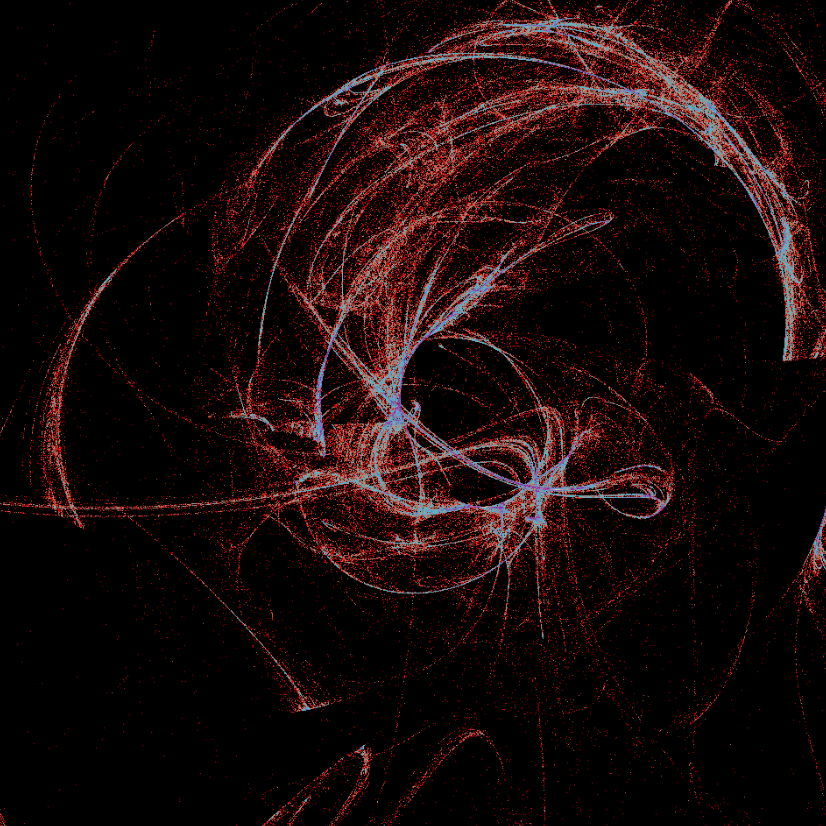
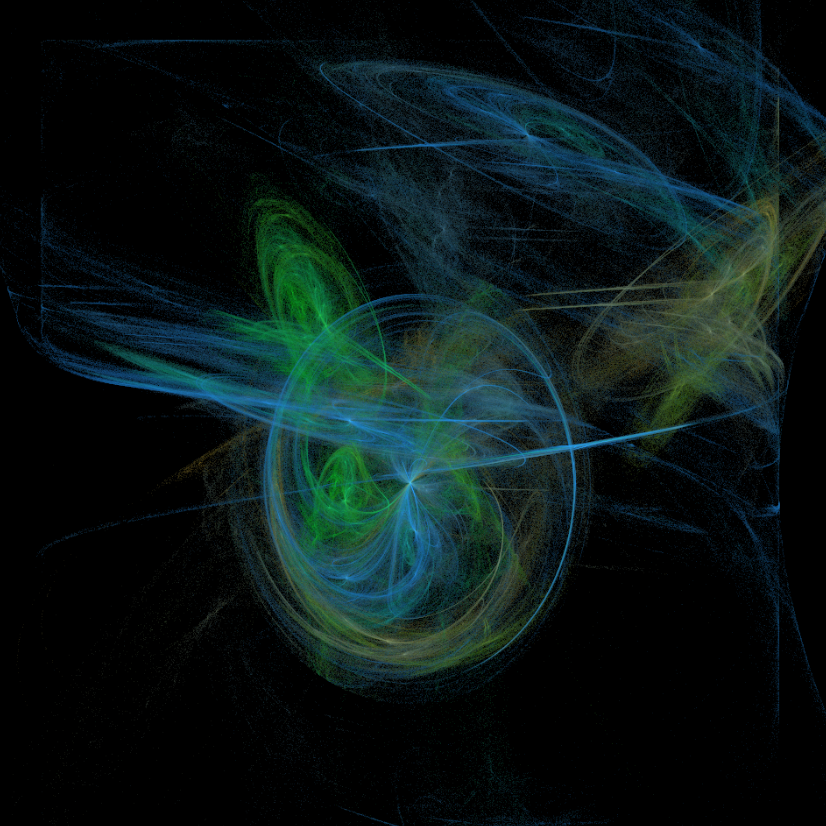
Update flame colors

diff --git a/src/canvas_flame.cpp b/src/canvas_flame.cpp
@@ -29,7 +29,7 @@ Rcpp::DoubleVector affine(Rcpp::DoubleVector p,
                          double d, 
                          double e, 
                          double f) {
-  Rcpp::DoubleVector x(2);
+  Rcpp::DoubleVector x = p;
   x[0] = a * p[0] + b * p[1] + c;
   x[1] = d * p[0] + e * p[1] + f;
   return x;
@@ -44,7 +44,7 @@ Rcpp::DoubleVector variation(Rcpp::DoubleVector p,
                              double e,
                              double f,
                              Rcpp::DoubleVector pparams) {;
-  Rcpp::DoubleVector x(2);
+  Rcpp::DoubleVector x = p;
   double r = sqrt(pow(p[0], 2) + pow(p[1], 2));
   double theta = atan(p[0] / p[1]);
   double phi = atan(p[1] / p[0]);
@@ -295,7 +295,7 @@ Rcpp::DoubleVector posttransform(Rcpp::DoubleVector p,
                          double delta, 
                          double epsilon, 
                          double zeta) {
-  Rcpp::DoubleVector x(2);
+  Rcpp::DoubleVector x = p;
   x[0] = alpha * p[0] + beta * p[1] + gamma;
   x[1] = delta * p[0] + epsilon * p[1] + zeta;
   return x;
@@ -309,6 +309,19 @@ Rcpp::NumericVector get_variation_weights(arma::mat v_ij,
     v_j[iter] = v_ij(i[0], iter);
   }
   return v_j;
+}
+
+Rcpp::DoubleVector update_colors(Rcpp::DoubleVector p,
+                                  arma::mat colors,
+                                  int i) {
+  Rcpp::DoubleVector x = p;
+  double c1 = (p[2] + colors(i, 0)) / 2;
+  x[2] = c1;
+  double c2 = (p[3] + colors(i, 1)) / 2;
+  x[3] = c2;
+  double c3 = (p[4] + colors(i, 2)) / 2;
+  x[4] = c3;
+  return x;
 }
 
 // [[Rcpp::export]]
@@ -326,16 +339,21 @@ Rcpp::DataFrame iterate_flame(int iterations,
                               bool transform_f,
                               Rcpp::DoubleVector f_coef,
                               bool transform_e,
-                              Rcpp::DoubleVector e_coef) {
+                              Rcpp::DoubleVector e_coef,
+                              arma::mat colors) {
   int nvariations = variations.length();
   int npoints = (iterations - 20);
   Rcpp::DoubleVector x(npoints);
   Rcpp::DoubleVector y(npoints);
-  Rcpp::DoubleVector p(2);
+  Rcpp::DoubleVector c1(npoints);
+  Rcpp::DoubleVector c2(npoints);
+  Rcpp::DoubleVector c3(npoints);
+  Rcpp::DoubleVector alpha(npoints);
+  Rcpp::DoubleVector p(5);
   for (int iter = 0; iter < iterations; iter++) {
     Rcpp::checkUserInterrupt();
     Rcpp::NumericVector i = Rcpp::sample(functions, 1, false, w_i);
-    Rcpp::DoubleVector newpoint(2);
+    Rcpp::DoubleVector newpoint(5);
     p = affine(point, mat_coef(i[0], 0), mat_coef(i[0], 1), mat_coef(i[0], 2), mat_coef(i[0], 3), mat_coef(i[0], 4), mat_coef(i[0], 5));
     if (blend_variations) {
       for (int j = 0; j < nvariations; j++) {
@@ -351,6 +369,7 @@ Rcpp::DataFrame iterate_flame(int iterations,
       newpoint = variation(p, ch[0], mat_coef(i[0], 0), mat_coef(i[0], 1), mat_coef(i[0], 2), mat_coef(i[0], 3), mat_coef(i[0], 4), mat_coef(i[0], 5), v_params);
     }
     point = newpoint;
+    point = update_colors(point, colors, i[0]);
     if (transform_p) {
       point = posttransform(point, p_coef(i[0], 0), p_coef(i[0], 1), p_coef(i[0], 2), p_coef(i[0], 3), p_coef(i[0], 4), p_coef(i[0], 5));
     }
@@ -363,10 +382,17 @@ Rcpp::DataFrame iterate_flame(int iterations,
     if (iter > 19) {
       x[iter - 20] = point[0];
       y[iter - 20] = point[1];
+	  c1[iter - 20] = point[2];
+	  c2[iter - 20] = point[3];
+	  c3[iter - 20] = point[4];
     }
   }
   Rcpp::DataFrame flame = Rcpp::DataFrame::create(Rcpp::Named("x") = x,
-                                                  Rcpp::Named("y") = y);
+                                                  Rcpp::Named("y") = y,
+                                                  Rcpp::Named("c1") = c1,
+                                                  Rcpp::Named("c2") = c2,
+                                                  Rcpp::Named("c3") = c3,
+                                                  Rcpp::Named("alpha") = alpha);
   return flame;
 }
 
@@ -379,7 +405,8 @@ arma::mat color_flame(arma::mat canvas,
                       Rcpp::DoubleVector x,
                       Rcpp::DoubleVector y,
                       Rcpp::DoubleVector binsx,
-                      Rcpp::DoubleVector binsy) {
+                      Rcpp::DoubleVector binsy,
+                      Rcpp::DoubleVector c) {
   for (int i = 0; i < x.length(); i++) {
     Rcpp::checkUserInterrupt();
     int indx = cfindInterval(x[i], binsx);
@@ -390,7 +417,7 @@ arma::mat color_flame(arma::mat canvas,
     if ((indy == 0) | (indy == binsy.length())) {
       continue;
     }
-    canvas(indx, indy) = canvas(indx, indy) + 1;
+    canvas(indx, indy) = canvas(indx, indy) + c[i];
   }
   return canvas;
 }

diff --git a/src/RcppExports.cpp b/src/RcppExports.cpp
@@ -83,8 +83,8 @@ BEGIN_RCPP
 END_RCPP
 }
 // iterate_flame
-Rcpp::DataFrame iterate_flame(int iterations, Rcpp::DoubleVector functions, Rcpp::DoubleVector variations, Rcpp::DoubleVector point, Rcpp::DoubleVector w_i, arma::mat mat_coef, bool blend_variations, arma::mat v_ij, Rcpp::DoubleVector v_params, bool transform_p, arma::mat p_coef, bool transform_f, Rcpp::DoubleVector f_coef, bool transform_e, Rcpp::DoubleVector e_coef);
-RcppExport SEXP _aRtsy_iterate_flame(SEXP iterationsSEXP, SEXP functionsSEXP, SEXP variationsSEXP, SEXP pointSEXP, SEXP w_iSEXP, SEXP mat_coefSEXP, SEXP blend_variationsSEXP, SEXP v_ijSEXP, SEXP v_paramsSEXP, SEXP transform_pSEXP, SEXP p_coefSEXP, SEXP transform_fSEXP, SEXP f_coefSEXP, SEXP transform_eSEXP, SEXP e_coefSEXP) {
+Rcpp::DataFrame iterate_flame(int iterations, Rcpp::DoubleVector functions, Rcpp::DoubleVector variations, Rcpp::DoubleVector point, Rcpp::DoubleVector w_i, arma::mat mat_coef, bool blend_variations, arma::mat v_ij, Rcpp::DoubleVector v_params, bool transform_p, arma::mat p_coef, bool transform_f, Rcpp::DoubleVector f_coef, bool transform_e, Rcpp::DoubleVector e_coef, arma::mat colors);
+RcppExport SEXP _aRtsy_iterate_flame(SEXP iterationsSEXP, SEXP functionsSEXP, SEXP variationsSEXP, SEXP pointSEXP, SEXP w_iSEXP, SEXP mat_coefSEXP, SEXP blend_variationsSEXP, SEXP v_ijSEXP, SEXP v_paramsSEXP, SEXP transform_pSEXP, SEXP p_coefSEXP, SEXP transform_fSEXP, SEXP f_coefSEXP, SEXP transform_eSEXP, SEXP e_coefSEXP, SEXP colorsSEXP) {
 BEGIN_RCPP
     Rcpp::RObject rcpp_result_gen;
     Rcpp::RNGScope rcpp_rngScope_gen;
@@ -103,13 +103,14 @@ BEGIN_RCPP
     Rcpp::traits::input_parameter< Rcpp::DoubleVector >::type f_coef(f_coefSEXP);
     Rcpp::traits::input_parameter< bool >::type transform_e(transform_eSEXP);
     Rcpp::traits::input_parameter< Rcpp::DoubleVector >::type e_coef(e_coefSEXP);
-    rcpp_result_gen = Rcpp::wrap(iterate_flame(iterations, functions, variations, point, w_i, mat_coef, blend_variations, v_ij, v_params, transform_p, p_coef, transform_f, f_coef, transform_e, e_coef));
+    Rcpp::traits::input_parameter< arma::mat >::type colors(colorsSEXP);
+    rcpp_result_gen = Rcpp::wrap(iterate_flame(iterations, functions, variations, point, w_i, mat_coef, blend_variations, v_ij, v_params, transform_p, p_coef, transform_f, f_coef, transform_e, e_coef, colors));
     return rcpp_result_gen;
 END_RCPP
 }
 // color_flame
-arma::mat color_flame(arma::mat canvas, Rcpp::DoubleVector x, Rcpp::DoubleVector y, Rcpp::DoubleVector binsx, Rcpp::DoubleVector binsy);
-RcppExport SEXP _aRtsy_color_flame(SEXP canvasSEXP, SEXP xSEXP, SEXP ySEXP, SEXP binsxSEXP, SEXP binsySEXP) {
+arma::mat color_flame(arma::mat canvas, Rcpp::DoubleVector x, Rcpp::DoubleVector y, Rcpp::DoubleVector binsx, Rcpp::DoubleVector binsy, Rcpp::DoubleVector c);
+RcppExport SEXP _aRtsy_color_flame(SEXP canvasSEXP, SEXP xSEXP, SEXP ySEXP, SEXP binsxSEXP, SEXP binsySEXP, SEXP cSEXP) {
 BEGIN_RCPP
     Rcpp::RObject rcpp_result_gen;
     Rcpp::RNGScope rcpp_rngScope_gen;
@@ -118,7 +119,8 @@ BEGIN_RCPP
     Rcpp::traits::input_parameter< Rcpp::DoubleVector >::type y(ySEXP);
     Rcpp::traits::input_parameter< Rcpp::DoubleVector >::type binsx(binsxSEXP);
     Rcpp::traits::input_parameter< Rcpp::DoubleVector >::type binsy(binsySEXP);
-    rcpp_result_gen = Rcpp::wrap(color_flame(canvas, x, y, binsx, binsy));
+    Rcpp::traits::input_parameter< Rcpp::DoubleVector >::type c(cSEXP);
+    rcpp_result_gen = Rcpp::wrap(color_flame(canvas, x, y, binsx, binsy, c));
     return rcpp_result_gen;
 END_RCPP
 }
@@ -390,8 +392,8 @@ static const R_CallMethodDef CallEntries[] = {
     {"_aRtsy_draw_circlemap", (DL_FUNC) &_aRtsy_draw_circlemap, 6},
     {"_aRtsy_get_collatz_sequence", (DL_FUNC) &_aRtsy_get_collatz_sequence, 1},
     {"_aRtsy_draw_collatz", (DL_FUNC) &_aRtsy_draw_collatz, 4},
-    {"_aRtsy_iterate_flame", (DL_FUNC) &_aRtsy_iterate_flame, 15},
-    {"_aRtsy_color_flame", (DL_FUNC) &_aRtsy_color_flame, 5},
+    {"_aRtsy_iterate_flame", (DL_FUNC) &_aRtsy_iterate_flame, 16},
+    {"_aRtsy_color_flame", (DL_FUNC) &_aRtsy_color_flame, 6},
     {"_aRtsy_iterate_flow", (DL_FUNC) &_aRtsy_iterate_flow, 8},
     {"_aRtsy_iterate_maze", (DL_FUNC) &_aRtsy_iterate_maze, 3},
     {"_aRtsy_iterate_mesh", (DL_FUNC) &_aRtsy_iterate_mesh, 7},
